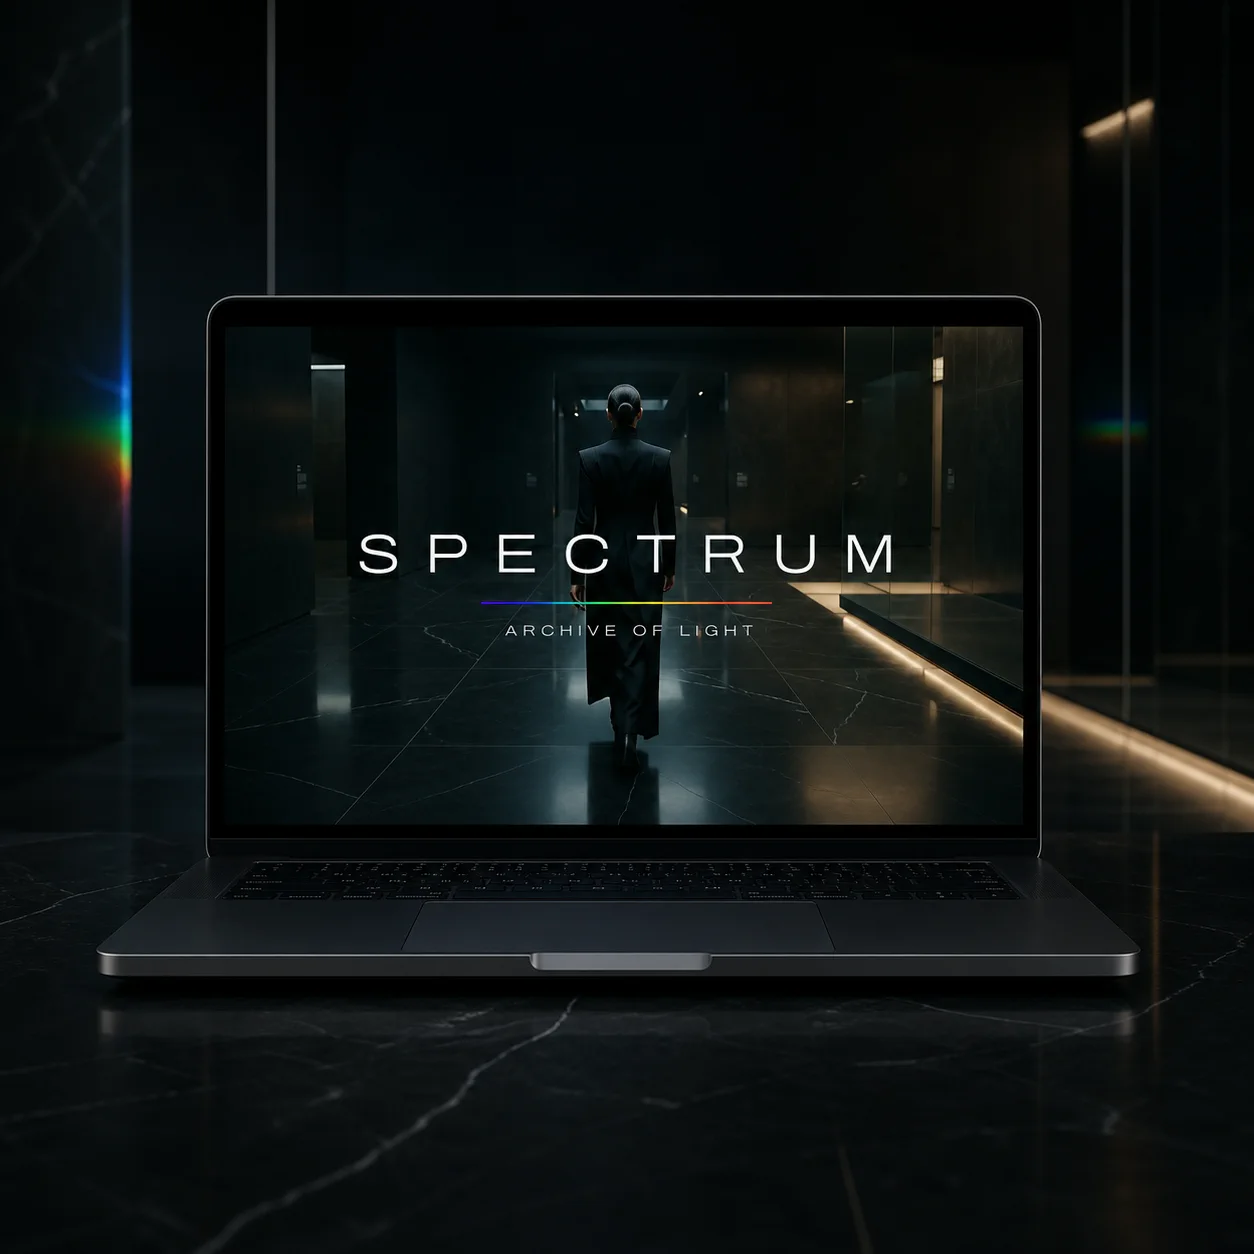
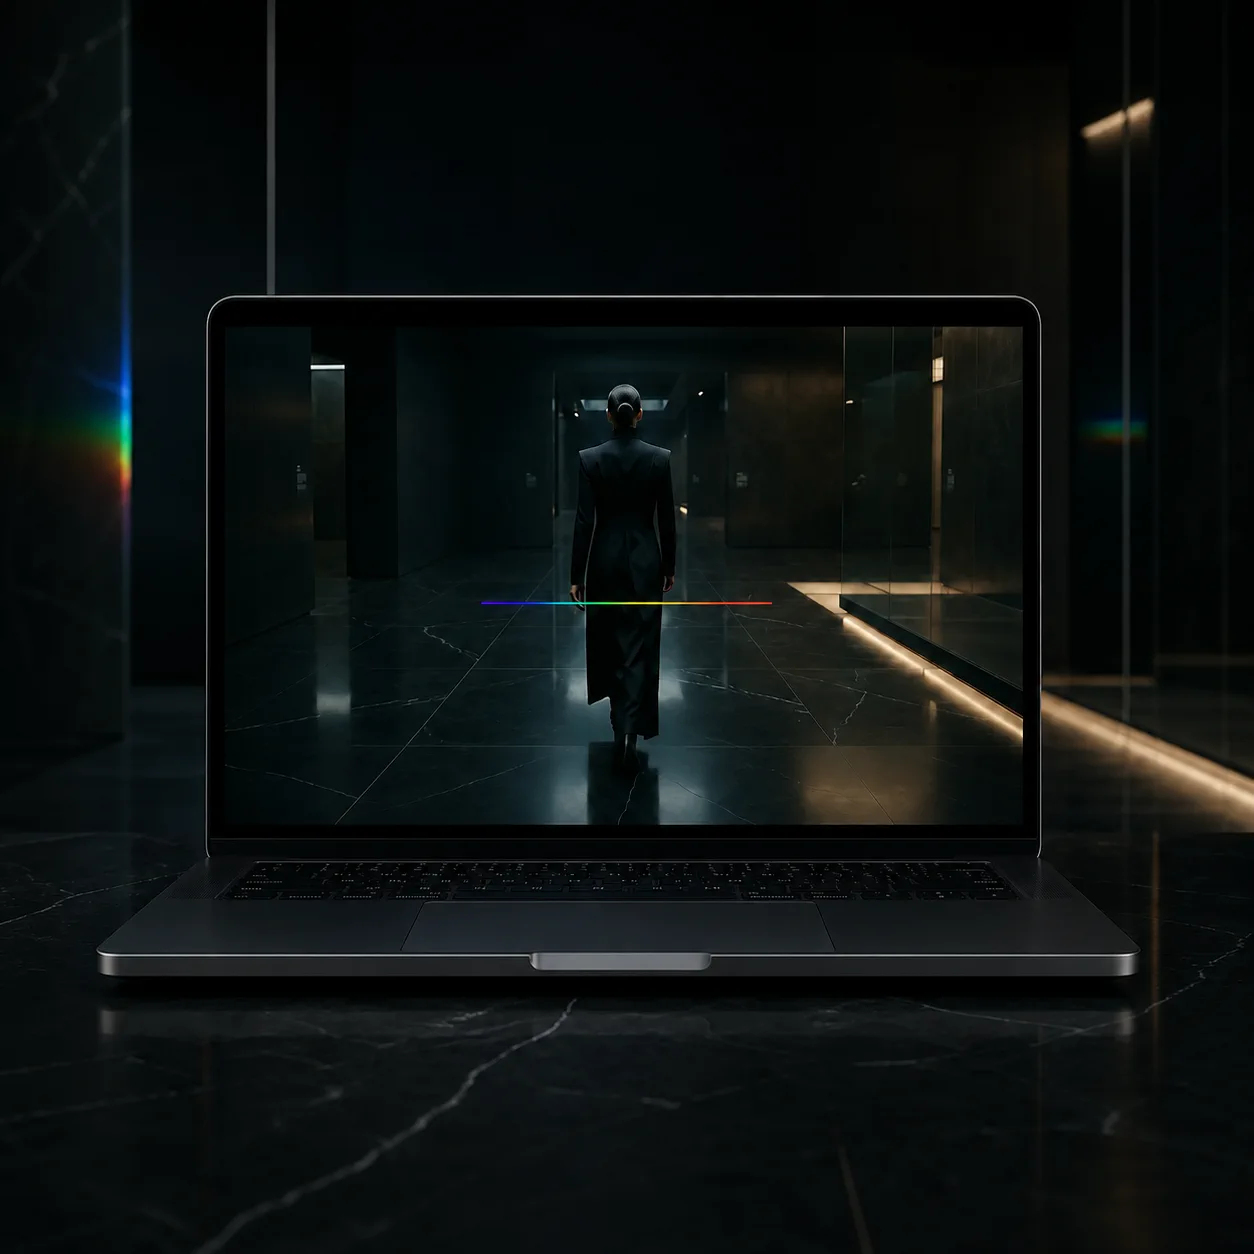
style(projects): simplify Spectrum mockup

diff --git a/CHANGELOG.md b/CHANGELOG.md
@@ -10,8 +10,9 @@ stosują [Semantic Versioning](https://semver.org/).
 
 - „SPECTRUM — Archive of Light” otwiera teraz wyróżnioną siódemkę jako
   interaktywna, sterowana scrollem wystawa o percepcji koloru; projekt otrzymał
-  dedykowany mockup oparty na jego rzeczywistym kadrze, opis PL/EN i zgodne z
-  implementacją tagi. „APK://GENESIS” przeniesiono bez usuwania do archiwum,
+  dedykowany mockup oparty na jego rzeczywistym kadrze, z ekranem pozbawionym
+  typografii konkurującej z tytułem karty, opis PL/EN i zgodne z implementacją
+  tagi. „APK://GENESIS” przeniesiono bez usuwania do archiwum,
   a „Mechanikę Czasu” wycofano z prezentowanej kolekcji przy zachowaniu jej
   assetu źródłowego,
 - Sekwencję hero zastąpiono materialnym, bazaltowym monolitem, który pęka i
